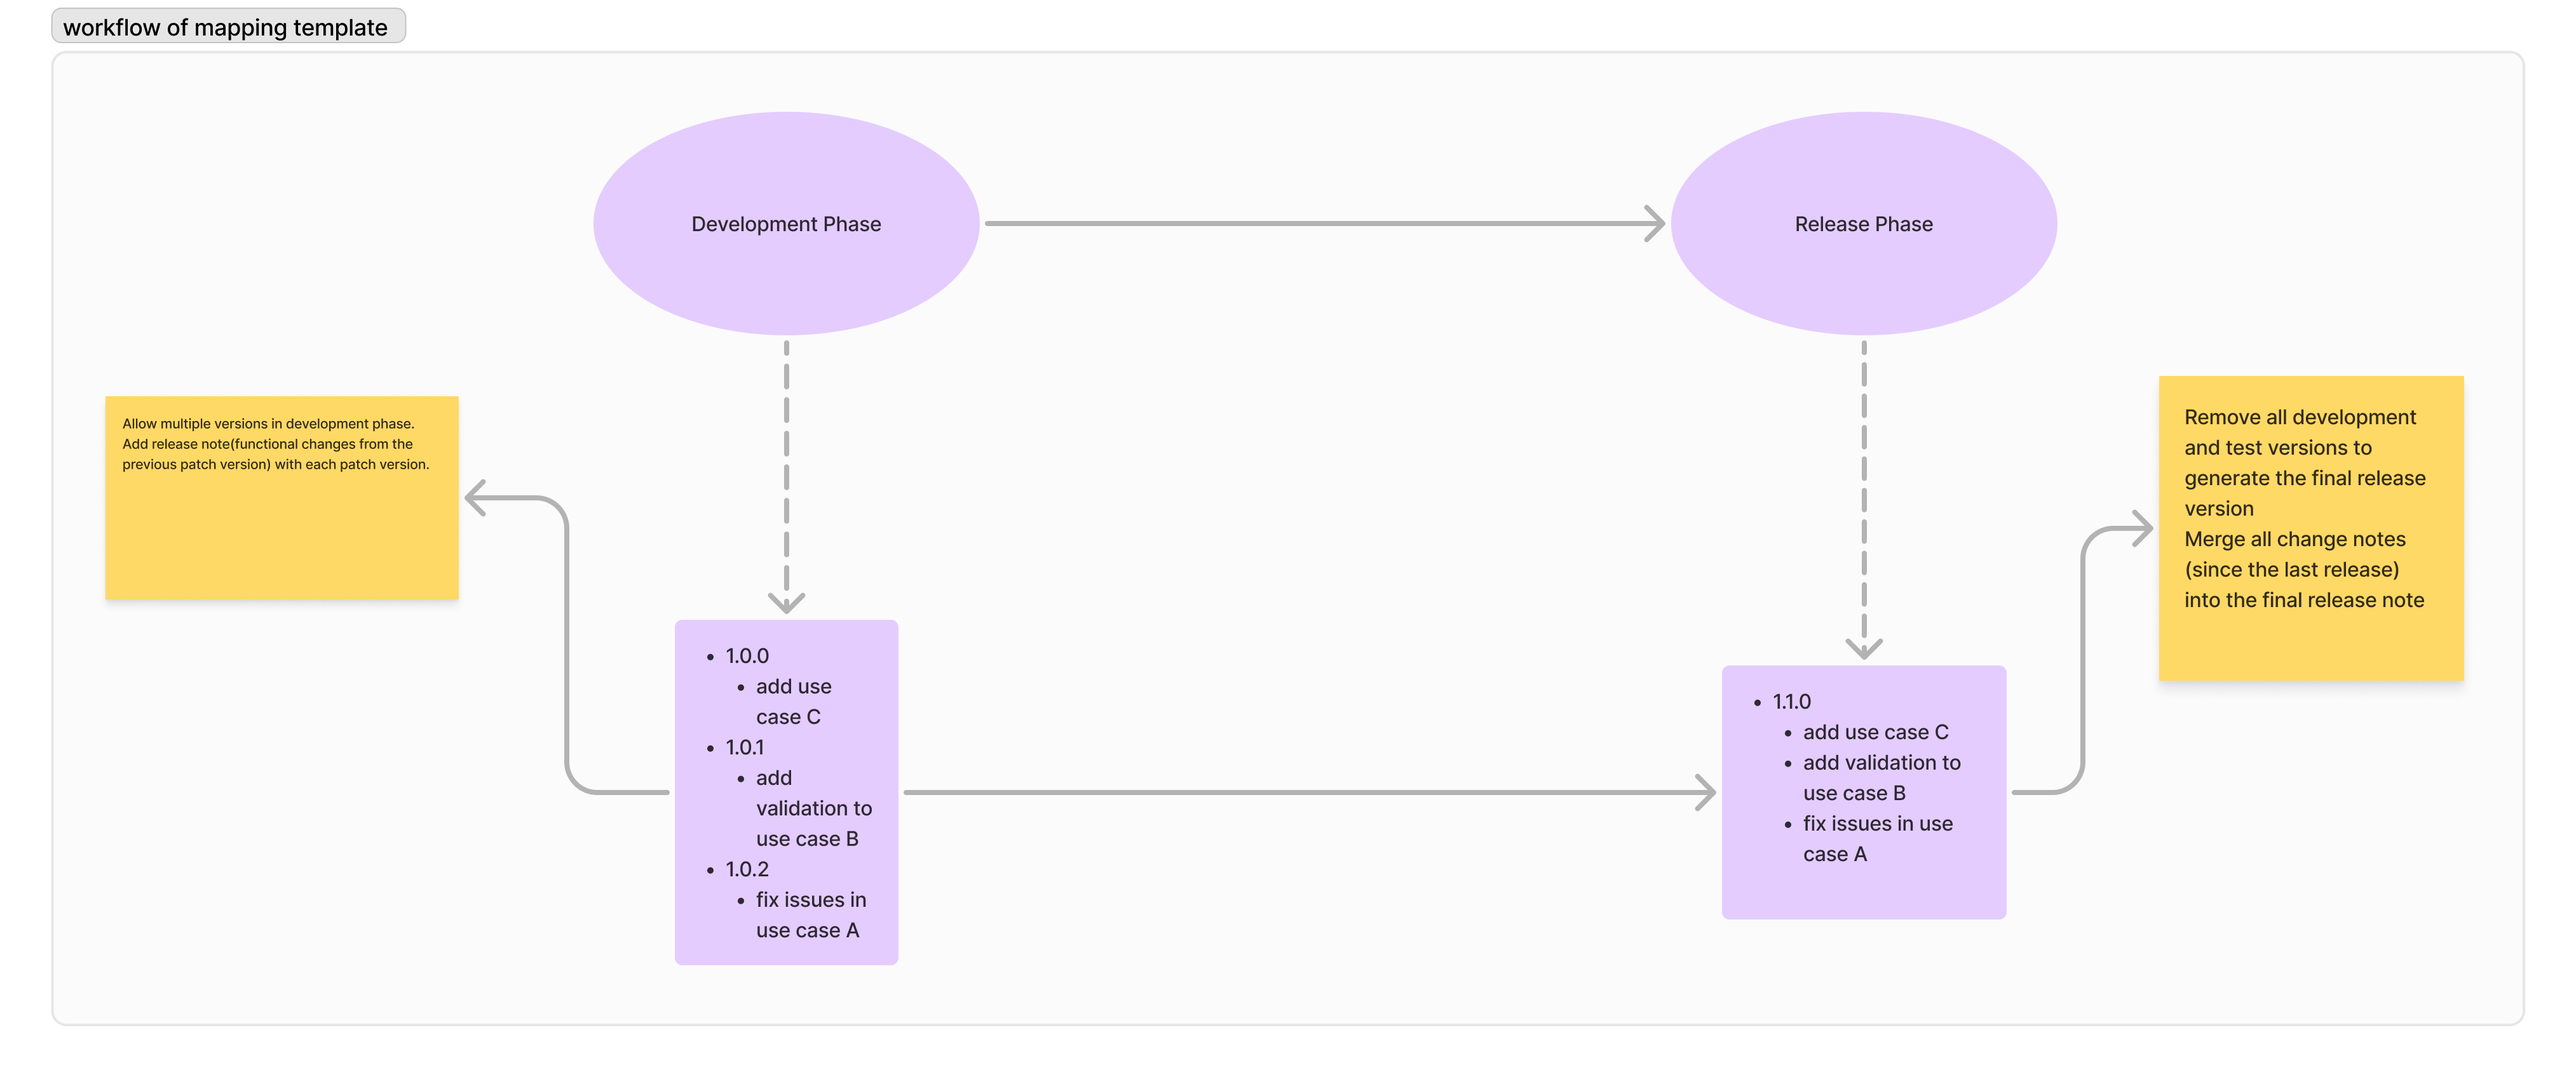
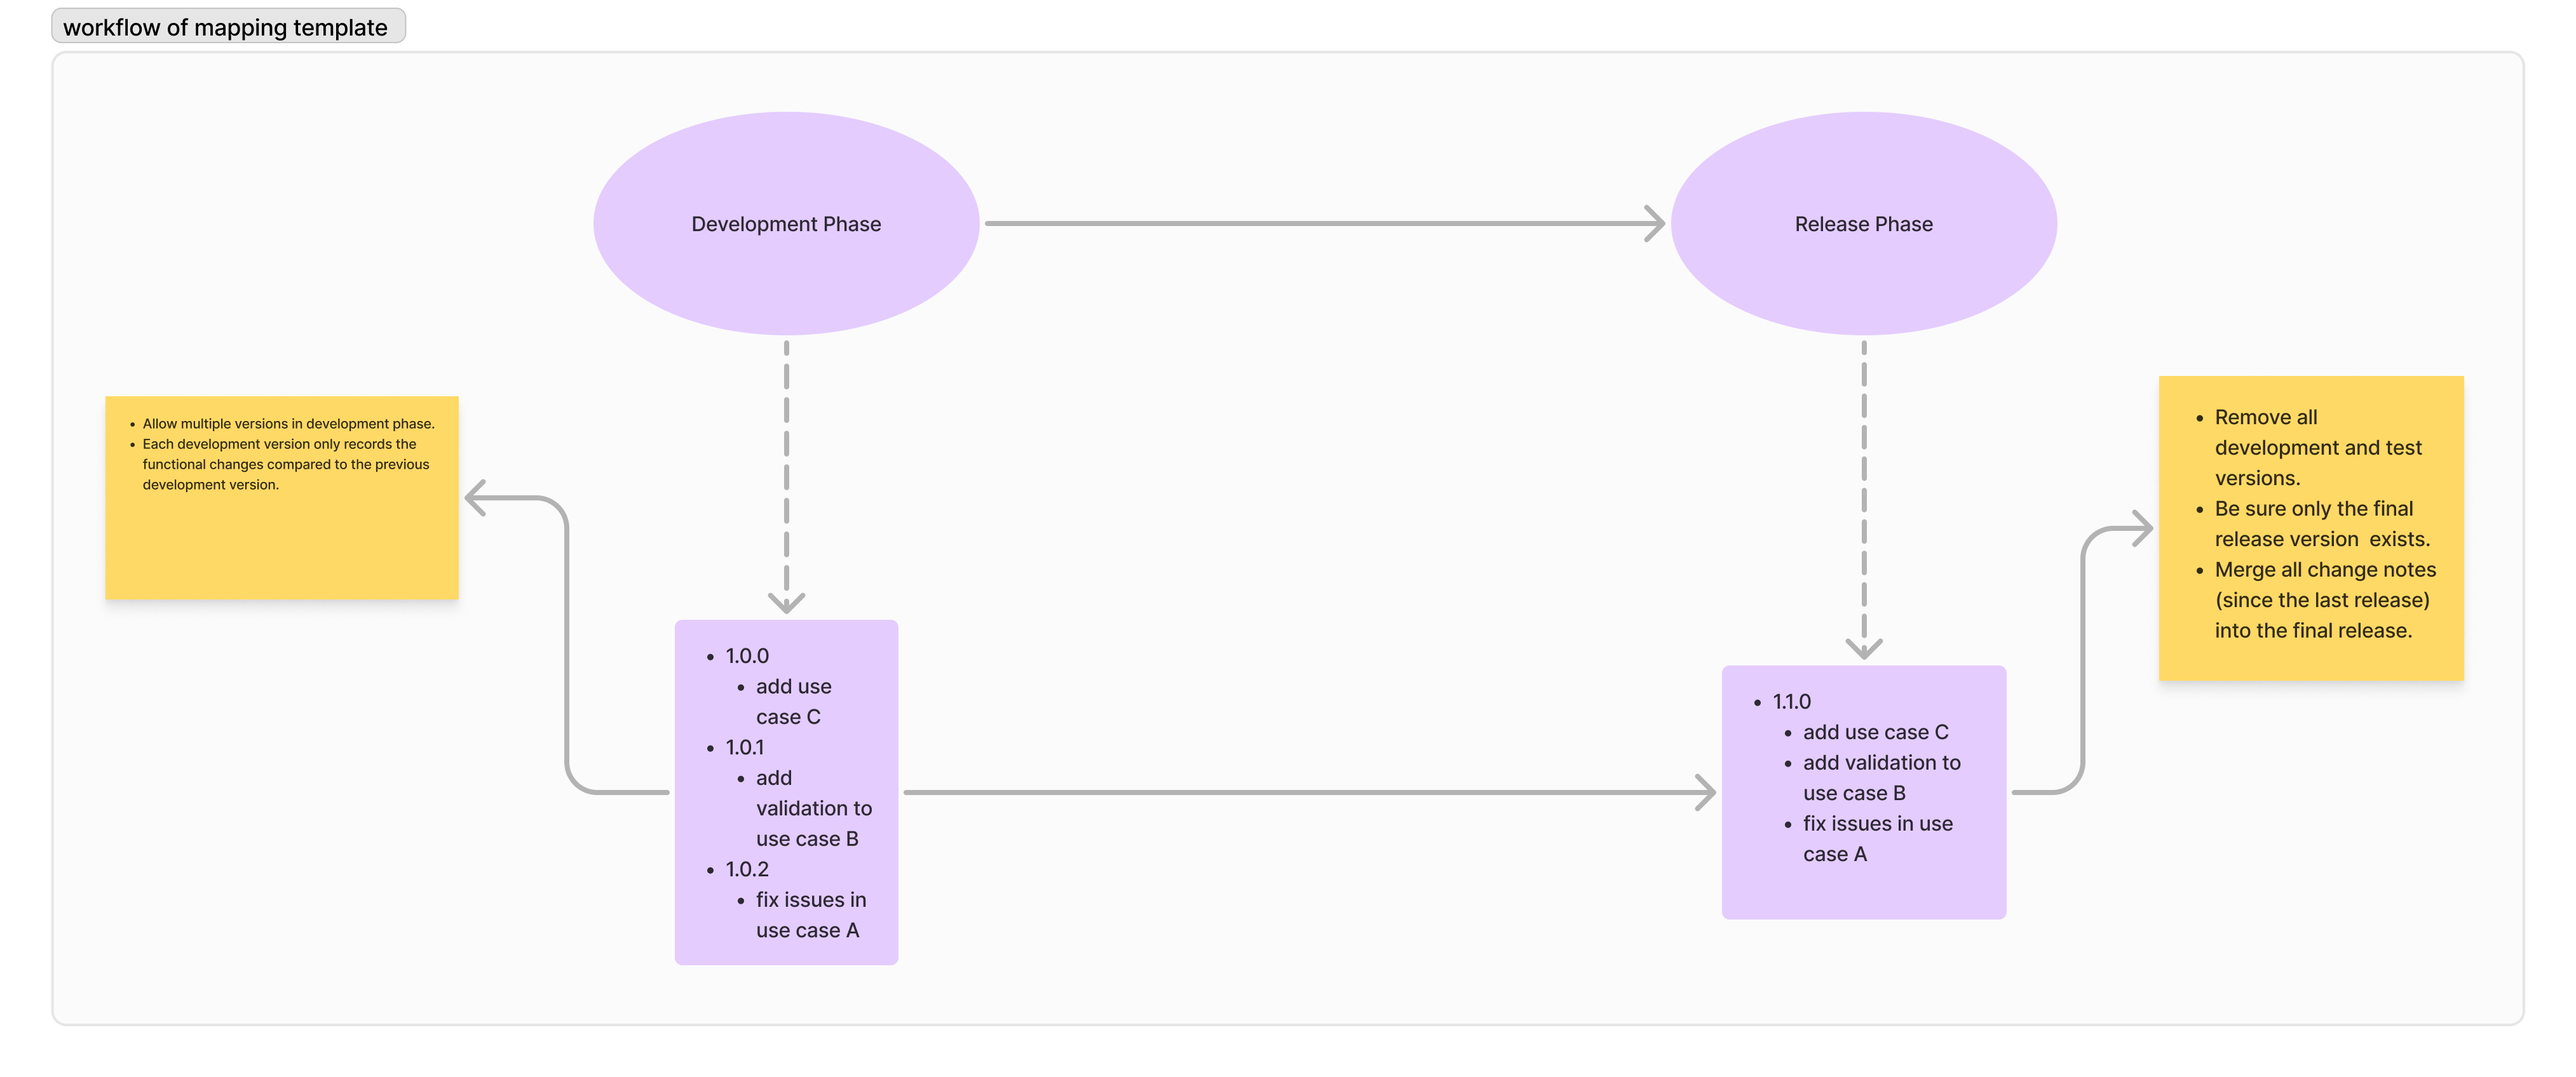
modify some text

Changed region(s): [[0.8392, 0.375, 0.9324, 0.5938], [0.0311, 0.375, 0.1554, 0.4688]]

diff --git a/docs/mapping_template_upgrade_guide.md b/docs/mapping_template_upgrade_guide.md
@@ -7,13 +7,13 @@
 ### Development phase
 
 * Allow multiple versions in development phase.
-* Add release note(functional changes from the previous patch version) with each patch version.
+* Each development version only records the functional changes compared to the previous development version.
 
 ### Release phase
 
-* create the the final release version
-* Merge all change notes (since the last release) into the final release note
-* Remove all development and test versions in directory of mef-soanta/template-upgrade
+* create the the final release version.
+* Merge all change notes (since the last release) into the final release.
+* Remove all development and test versions in directory of mef-sonata/template-upgrade.
 
 
 ## When to add a new mapping template release
@@ -54,10 +54,10 @@
    **Important fields explanation**
 
    * productSpec: Standard version of one product.Such as grace,haley in LSO SONATA.
-   * productVersion: Release version of mapping tempalte release.
+   * productVersion: Release version of mapping template release.
    * publishDate: Release date of mapping template.
    * description: Description of all changes in the current release.
-2. Add path of the release file to product.yaml
+2. Add path of the release file to mef-sonata/product.yaml
 
    ```yaml
    spec:
